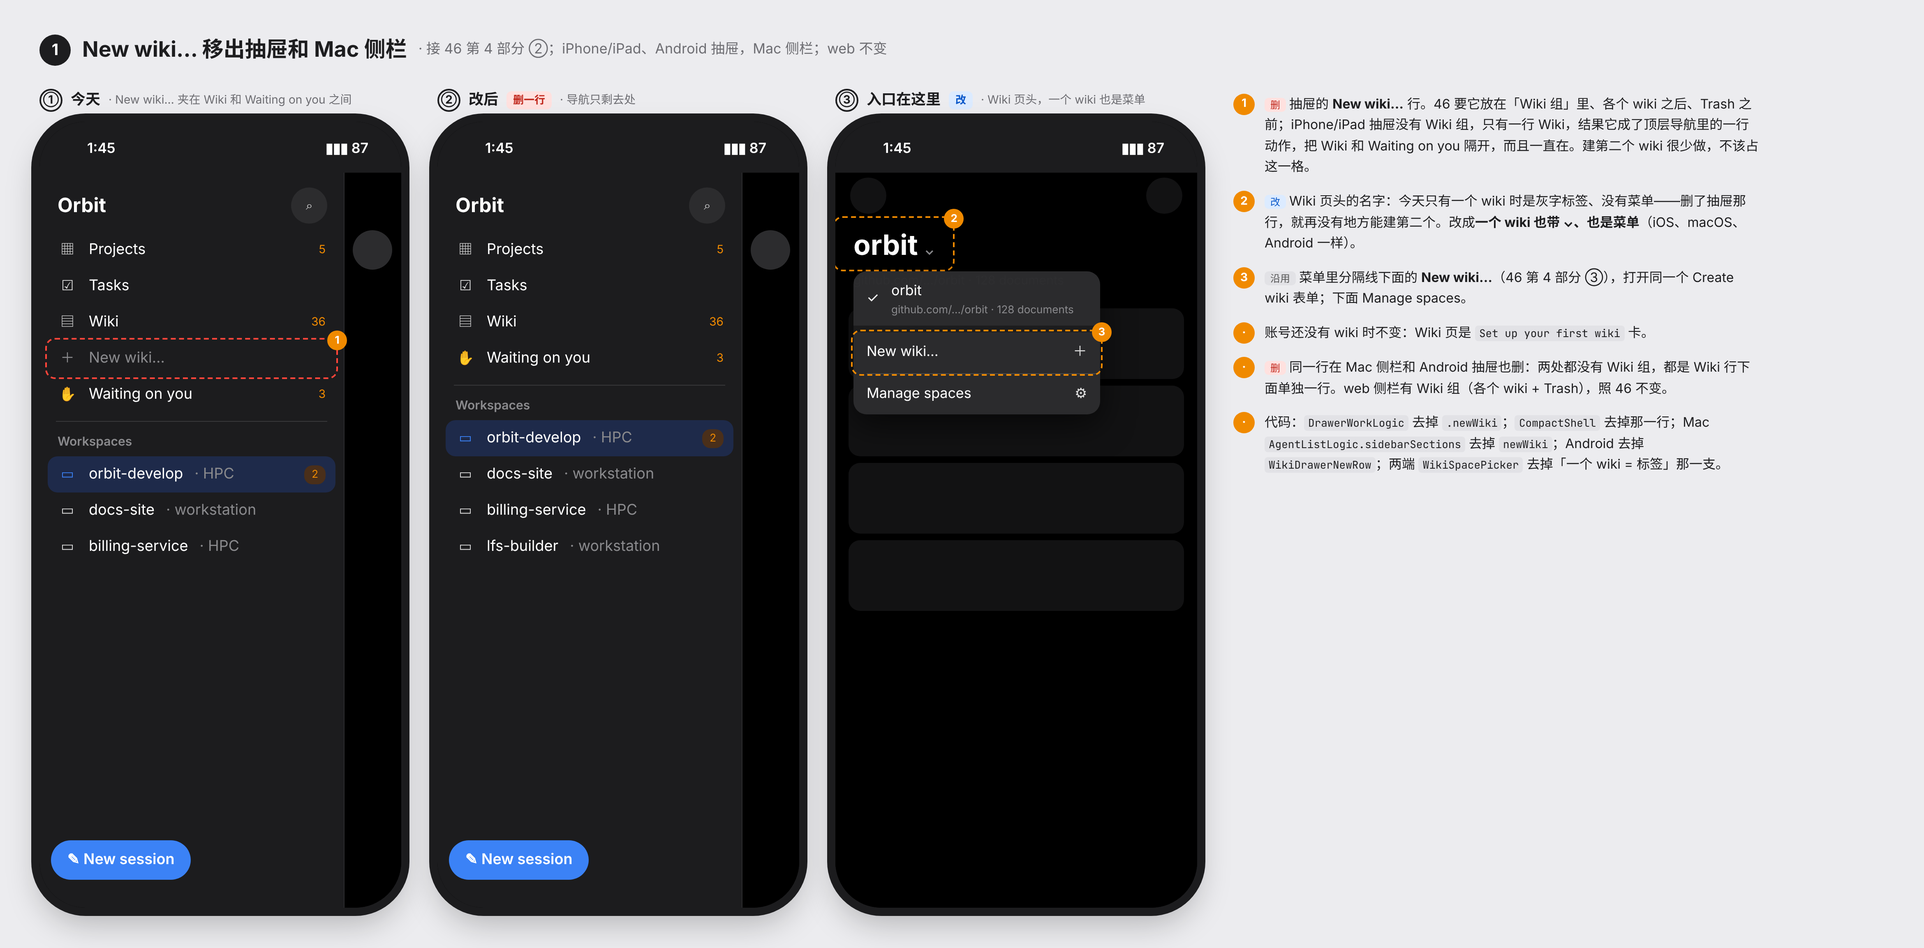
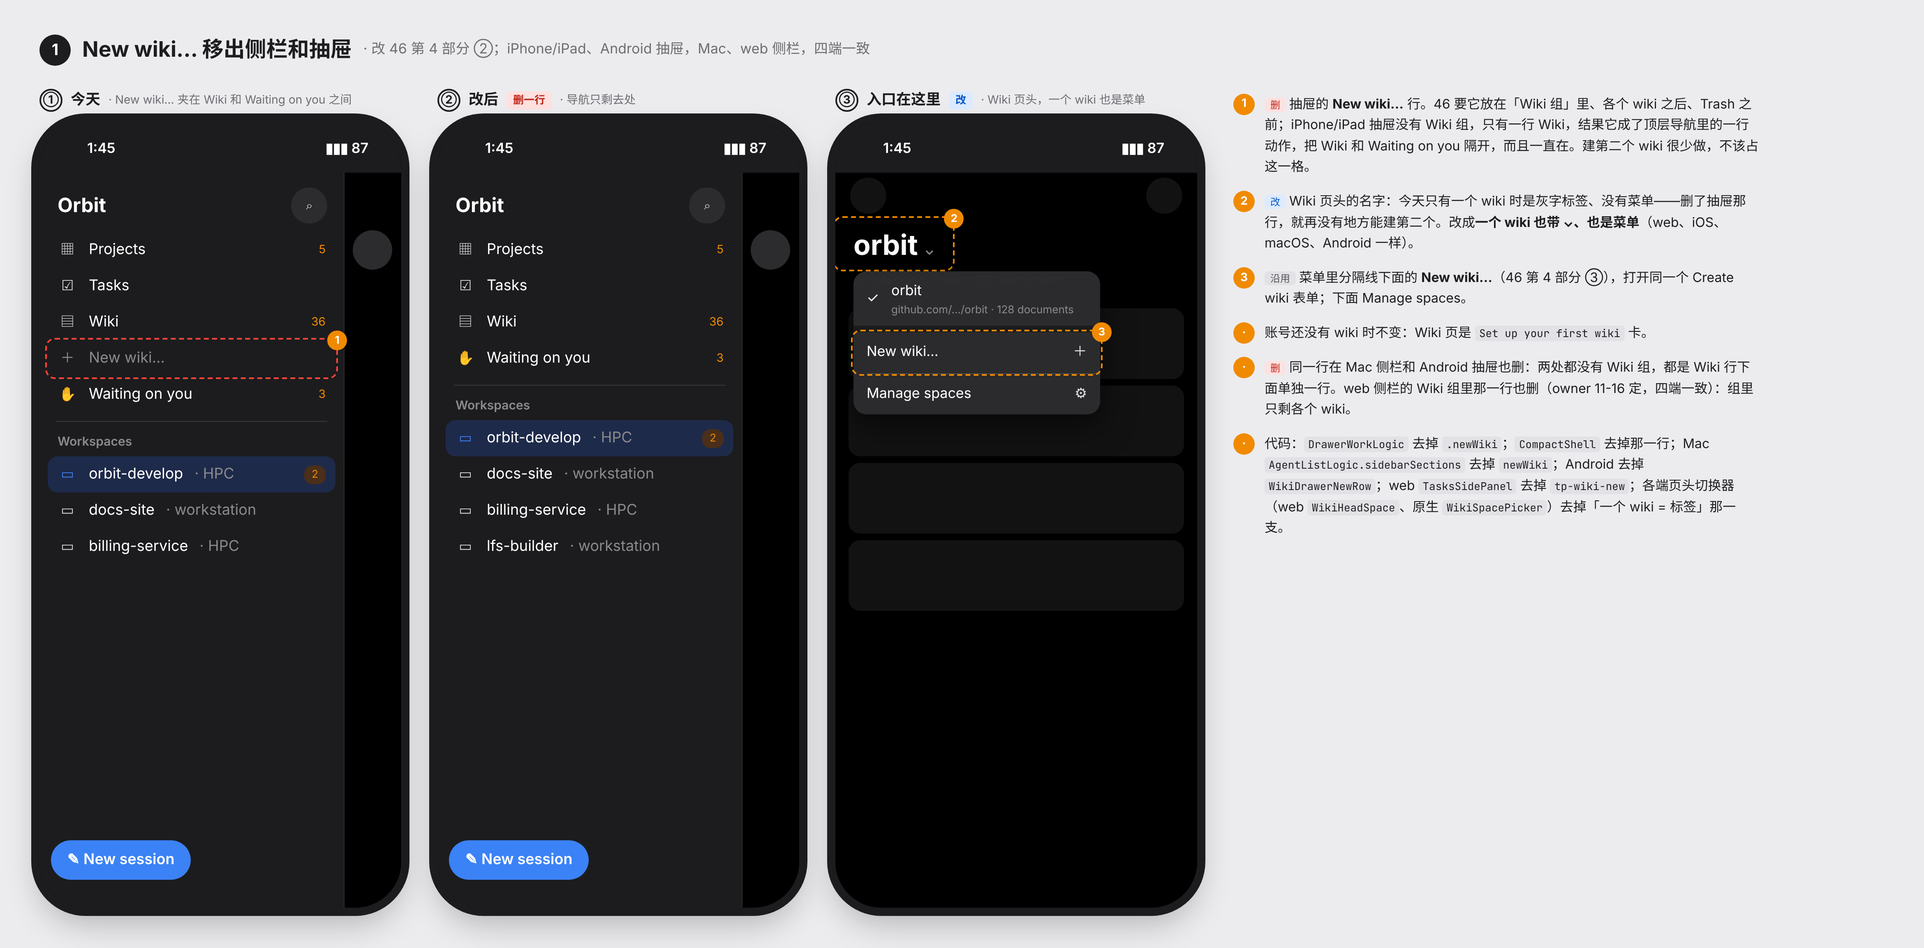
feat(web): New wiki… leaves the web sidebar too; the wiki head is a menu with one wiki
Board 47, owner's call on 11-16: no client draws a New wiki… row in its
sidebar or drawer. On the web the row was the Wiki group's last row
(board 46 part 4 ②); it goes as well, so the four clients match.

- TasksSidePanel: the tp-wiki-new row, its dialog state and its CSS removed.
- WikiHeadSpace: one wiki is a menu too (the wiki ticked, New wiki…,
  Manage spaces), as on iOS, macOS and Android, so New wiki… stays reachable.
- Tests: the sidebar's New wiki… block becomes "no row"; the one-wiki head
  tests expect the menu; the Swift parity tests that read the web follow.
- Board 47 and design doc §3.4 say the web row is gone as well.

Web: tsc clean; full vitest 8021/8023, and the 2 that failed at load ~40
(WorkspaceView.sessionMenu, WorkspaceSettingsPage.autoCompact) pass alone.
OrbitKit on Linux: 5323 tests, 0 failures.

diff --git a/docs/mocks/wiki/47-new-wiki-out-of-drawer.html b/docs/mocks/wiki/47-new-wiki-out-of-drawer.html
@@ -2,7 +2,7 @@
 <html lang="zh">
 <head>
 <meta charset="utf-8">
-<title>47 · New wiki… 移出抽屉和 Mac 侧栏</title>
+<title>47 · New wiki… 移出侧栏和抽屉</title>
 <style>
   * { box-sizing: border-box; }
   body { margin: 0; background: #ececef; font: 15px/1.6 Inter, "Noto Sans SC", sans-serif; color: #1d1d1f; }
@@ -74,7 +74,7 @@
 <body>
 
 <section class="b-part" id="part-1">
-  <div class="b-title"><span class="b-num">1</span>New wiki… 移出抽屉和 Mac 侧栏<span class="b-sub">· 接 46 第 4 部分 ②；iPhone/iPad、Android 抽屉，Mac 侧栏；web 不变</span></div>
+  <div class="b-title"><span class="b-num">1</span>New wiki… 移出侧栏和抽屉<span class="b-sub">· 改 46 第 4 部分 ②；iPhone/iPad、Android 抽屉，Mac、web 侧栏，四端一致</span></div>
   <div class="b-row">
     <div class="b-col">
       <h3><span class="b-n">①</span>今天 <small>· New wiki… 夹在 Wiki 和 Waiting on you 之间</small></h3>
@@ -140,11 +140,11 @@
     </div>
     <div class="b-notes">
       <p class="b-note"><span class="b-m">1</span><span><span class="b-chip b-del">删</span>抽屉的 <b>New wiki…</b> 行。46 要它放在「Wiki 组」里、各个 wiki 之后、Trash 之前；iPhone/iPad 抽屉没有 Wiki 组，只有一行 Wiki，结果它成了顶层导航里的一行动作，把 Wiki 和 Waiting on you 隔开，而且一直在。建第二个 wiki 很少做，不该占这一格。</span></p>
-      <p class="b-note"><span class="b-m">2</span><span><span class="b-chip b-new">改</span>Wiki 页头的名字：今天只有一个 wiki 时是灰字标签、没有菜单——删了抽屉那行，就再没有地方能建第二个。改成<b>一个 wiki 也带 ⌄、也是菜单</b>（iOS、macOS、Android 一样）。</span></p>
+      <p class="b-note"><span class="b-m">2</span><span><span class="b-chip b-new">改</span>Wiki 页头的名字：今天只有一个 wiki 时是灰字标签、没有菜单——删了抽屉那行，就再没有地方能建第二个。改成<b>一个 wiki 也带 ⌄、也是菜单</b>（web、iOS、macOS、Android 一样）。</span></p>
       <p class="b-note"><span class="b-m">3</span><span><span class="b-chip b-keep">沿用</span>菜单里分隔线下面的 <b>New wiki…</b>（46 第 4 部分 ③），打开同一个 Create wiki 表单；下面 Manage spaces。</span></p>
       <p class="b-note"><span class="b-m">·</span><span>账号还没有 wiki 时不变：Wiki 页是 <code>Set up your first wiki</code> 卡。</span></p>
-      <p class="b-note"><span class="b-m">·</span><span><span class="b-chip b-del">删</span>同一行在 Mac 侧栏和 Android 抽屉也删：两处都没有 Wiki 组，都是 Wiki 行下面单独一行。web 侧栏有 Wiki 组（各个 wiki + Trash），照 46 不变。</span></p>
-      <p class="b-note"><span class="b-m">·</span><span>代码：<code>DrawerWorkLogic</code> 去掉 <code>.newWiki</code>；<code>CompactShell</code> 去掉那一行；Mac <code>AgentListLogic.sidebarSections</code> 去掉 <code>newWiki</code>；Android 去掉 <code>WikiDrawerNewRow</code>；两端 <code>WikiSpacePicker</code> 去掉「一个 wiki = 标签」那一支。</span></p>
+      <p class="b-note"><span class="b-m">·</span><span><span class="b-chip b-del">删</span>同一行在 Mac 侧栏和 Android 抽屉也删：两处都没有 Wiki 组，都是 Wiki 行下面单独一行。web 侧栏的 Wiki 组里那一行也删（owner 11-16 定，四端一致）：组里只剩各个 wiki。</span></p>
+      <p class="b-note"><span class="b-m">·</span><span>代码：<code>DrawerWorkLogic</code> 去掉 <code>.newWiki</code>；<code>CompactShell</code> 去掉那一行；Mac <code>AgentListLogic.sidebarSections</code> 去掉 <code>newWiki</code>；Android 去掉 <code>WikiDrawerNewRow</code>；web <code>TasksSidePanel</code> 去掉 <code>tp-wiki-new</code>；各端页头切换器（web <code>WikiHeadSpace</code>、原生 <code>WikiSpacePicker</code>）去掉「一个 wiki = 标签」那一支。</span></p>
     </div>
   </div>
 </section>

diff --git a/src/web/src/components/TasksSidePanel.wikiGroup.test.tsx b/src/web/src/components/TasksSidePanel.wikiGroup.test.tsx
@@ -122,8 +122,8 @@ async function leave(): Promise<void> {
 }
 
 const group = () => container!.querySelector('.tp-group-wiki');
-/** The wikis' rows: the group's last row, New wiki…, is no wiki. */
-const rows = () => [...container!.querySelectorAll<HTMLElement>('.tp-group-wiki .tp-item:not(.tp-wiki-new)')];
+/** The wikis' rows. */
+const rows = () => [...container!.querySelectorAll<HTMLElement>('.tp-group-wiki .tp-item')];
 const row = (name: string) => rows().find((item) => item.querySelector('.tp-label')?.textContent === name)!;
 const names = () => rows().map((item) => item.querySelector('.tp-label')?.textContent);
 const entry = () =>
@@ -366,53 +366,10 @@ describe('the collapsed rail, which has no group', () => {
   });
 });
 
-describe('New wiki… (docs/wiki-explicit-creation-design.md §3.4, board 46 part 4)', () => {
-  const WORKSPACES = [
-    { ...WORKSPACE, repoUrl: 'https://github.com/jianghailong-xy/orbit.git', runner: { id: 'runner', name: 'workstation' } },
-    {
-      ...WORKSPACE,
-      id: encodeId('0196a000-0000-7000-8000-0000000000a2'),
-      name: 'lfs',
-      position: 1,
-      repoUrl: 'https://github.com/jianghailong-xy/lfs-builder',
-      runner: { id: 'runner', name: 'workstation' },
-    },
-  ];
-  const newRow = () => container!.querySelector<HTMLElement>('.tp-group-wiki .tp-item.tp-wiki-new');
-
-  it('is the group’s last row, after the wikis, grey and with no count', async () => {
+describe('New wiki… (board 47)', () => {
+  it('has no row in the Wiki group: the wiki head’s menu is the way to it', async () => {
     await visit('/projects');
-    const all = [...container!.querySelectorAll<HTMLElement>('.tp-group-wiki .tp-item')];
-    expect(all.at(-1)).toBe(newRow());
-    expect(newRow()!.querySelector('.tp-label')?.textContent).toBe(start.hasWiki.newWiki);
-    expect(newRow()!.querySelector('.tp-count')).toBeNull();
-    expect(newRow()!.getAttribute('role')).toBe('button');
-  });
-
-  it('folds with the group', async () => {
-    await visit('/projects');
-    await press(group()!.querySelector<HTMLElement>('.tp-group-head')!);
-    expect(newRow()).toBeNull();
-  });
-
-  it('opens the Create wiki form where the reader is, a repository with a wiki greyed and tagged', async () => {
-    serve(WIKIS, { workspaces: WORKSPACES });
-    await visit('/projects');
-    await press(newRow()!);
-    const dialog = document.querySelector('.wk-setup-dialog')!;
-    expect(dialog.querySelector('.orbit-overlay-title')?.textContent).toBe('Create wiki');
-    expect(pathname).toBe('/projects');
-    // The form opens on the one repository with no wiki, never on one that has one.
-    expect(document.getElementById('wk-setup-workspace')?.textContent).toBe('lfs · workstation');
-    await press(document.getElementById('wk-setup-workspace')!);
-    const labels = [...document.querySelectorAll('.orbit-select-group-label')].map((node) => node.textContent);
-    expect(labels).toEqual(['github.com/jianghailong-xy/lfs-builder', `github.com/jianghailong-xy/orbit${start.hasWiki.label}`]);
-  });
-
-  it('opens from the keyboard as well', async () => {
-    await visit('/projects');
-    await act(async () => newRow()!.dispatchEvent(new KeyboardEvent('keydown', { key: 'Enter', bubbles: true })));
-    await settle();
-    expect(document.querySelector('.wk-setup-dialog')).toBeTruthy();
+    expect(group()!.textContent).not.toContain(start.hasWiki.newWiki);
+    expect(rows().length).toBe(WIKIS.length);
   });
 });

diff --git a/src/web/src/components/TasksSidePanel.tsx b/src/web/src/components/TasksSidePanel.tsx
@@ -103,8 +103,6 @@ import { Avatar } from './ui/Avatar';
 import { useConfirm } from './ui/ConfirmDialog';
 import { Menu, type MenuItem } from './ui/Menu';
 import { useMoveWikiToTrash } from './WikiTrashDialog';
-import { WikiCreateDialog } from './WikiSetUpDialog';
-import { WIKI_NEW } from '../lib/wikiStart';
 import { Tooltip } from './ui/Tooltip';
 
 const IS_MAC_PLATFORM =
@@ -391,7 +389,6 @@ export function TasksSidePanel({ open = false, onNavigate }: { open?: boolean; o
   const wikiNames = useMemo(() => wikiSpaceNames(wikiSpaces.data ?? []), [wikiSpaces.data]);
   const [wikiOpen, setWikiOpen] = useState(true);
   // New wiki… (docs/wiki-explicit-creation-design.md §3.4): the Create wiki form, opened from the group's last row.
-  const [creatingWiki, setCreatingWiki] = useState(false);
 
   // The open workspace comes from /workspaces/<id>; behind a /sessions/<id> link, resolve
   // it from that session so its row highlights there too. The session query reuses
@@ -1173,23 +1170,8 @@ export function TasksSidePanel({ open = false, onNavigate }: { open?: boolean; o
                     menu={wikiMenu(space)}
                   />
                 ))}
-              {wikiOpen && (
-                <div
-                  className="tp-item tp-wiki-new"
-                  onClick={() => setCreatingWiki(true)}
-                  onKeyDown={(event) => handleNavActivation(event, () => setCreatingWiki(true))}
-                  role="button"
-                  tabIndex={0}
-                >
-                  <span className="tp-ico">
-                    <PlusOutlined aria-hidden="true" />
-                  </span>
-                  <span className="tp-label">{WIKI_NEW}</span>
-                </div>
-              )}
             </div>
           )}
-          {creatingWiki && <WikiCreateDialog onClose={() => setCreatingWiki(false)} />}
 
           {(hasWorkspaceRows || hasWikis) && hasProjects && <div className="tp-divider" />}
 

diff --git a/src/macos/OrbitKit/Tests/OrbitKitTests/WikiCopyParityTests.swift b/src/macos/OrbitKit/Tests/OrbitKitTests/WikiCopyParityTests.swift
@@ -370,15 +370,16 @@ final class WikiCopyParityTests: XCTestCase {
         assertSays(activity, "aria-label={wikiWaitingOnYou(waiting)}", in: Self.activity)
     }
 
-    /// One space is a label and several a picker (§12.3.4, mock 31 ④), by the same names; the rules for
+    /// The space is a picker however many there are (§12.3.4, mock 31 ④; board 47), by the same names; the rules for
     /// names, which space opens and what waits are held to the one fixture both ends read.
     func testTheSpaceRulesAreTheWebs() throws {
         let page = try source(Self.page)
         let head = try slice(page, from: "function WikiHeadSpace(", to: "/** The status row")
-        assertOrder(head, ["const names = useMemo(() => wikiSpaceNames(spaces), [spaces]);", "if (spaces.length < 2) {",
-                           "<span className=\"wk-space-tag\"", "textValue: wikiSpaceOption(names.get(row.id) ?? row.title, row),",
+        assertOrder(head, ["const names = useMemo(() => wikiSpaceNames(spaces), [spaces]);",
+                           "textValue: wikiSpaceOption(names.get(row.id) ?? row.title, row),",
                            "{ key: 'manage', label: WIKI_MANAGE_SPACES,"],
-                    "the head's space: a label alone, a menu among several ending at Manage spaces (board docs/mocks/wiki-space-menu)")
+                    "the head's space: a menu ending at Manage spaces (board docs/mocks/wiki-space-menu)")
+        XCTAssertFalse(head.contains("spaces.length < 2"), "one space is a menu too, as on this end (board 47)")
         assertSays(page, "wikiDefaultSpace(spaces.data ?? [], { workspaceId: readWikiFromWorkspace(), lastSlug: readWikiLastSpace() })",
                    in: Self.page)
         let rules = try source(Self.spaceLib)

diff --git a/src/web/src/pages/WikiPage.tsx b/src/web/src/pages/WikiPage.tsx
@@ -449,8 +449,8 @@ function WikiActivityRow({ space, waiting, on }: { space: SpaceRow; waiting: num
 }
 
 /**
- * The head's space (design §12.3.4, mock 31 ④): with one space, its name as a label with nothing to
- * choose; with more, the native select — closed, the name alone; open, every space with what waits in
+ * The head's space (design §12.3.4, mock 31 ④): a menu, one space or several, since it is the way to New wiki…
+ * (no sidebar has that row; board 47) — closed, the name alone; open, every space with what waits in
  * it, then New wiki… under a divider (docs/wiki-explicit-creation-design.md §3.4), which opens the Create
  * wiki form and leaves the head on this space. The name is the repository's (`wikiSpaceNames`), not the slug.
  */
@@ -459,13 +459,6 @@ function WikiHeadSpace({ space, spaces }: { space: SpaceRow; spaces: readonly Sp
   const names = useMemo(() => wikiSpaceNames(spaces), [spaces]);
   const [creating, setCreating] = useState(false);
   const name = names.get(space.id) ?? space.title;
-  if (spaces.length < 2) {
-    return (
-      <span className="wk-space-tag" title={WIKI_SPACE_PICKER_HINT}>
-        {name}
-      </span>
-    );
-  }
   // The console's own menu, as the Tasks title's scope picker opens (board docs/mocks/wiki-space-menu): a row a space —
   // its name, the repository and its documents under it, what waits in it as the sidebar's amber count — the current one
   // lit, and Manage spaces at the foot, into Wiki settings, as the native pickers end (iOS and Android `WikiSpacePicker`).

diff --git a/src/macos/OrbitKit/Tests/OrbitKitTests/WikiStartParityTests.swift b/src/macos/OrbitKit/Tests/OrbitKitTests/WikiStartParityTests.swift
@@ -869,13 +869,10 @@ final class WikiStartParityTests: XCTestCase {
         XCTAssertTrue(try native("WikiModel.swift").contains("WikiCopy.noSpaces"), "a write with no space on screen still says why")
     }
 
-    /// New wiki… (design §3.4, board 46 part 4; board 47): the web's sidebar row, and on every client the head picker's
-    /// item under its divider, raising the one Create wiki form over the shell. The iPhone/iPad drawer and the Mac
-    /// sidebar have no Wiki group, so they draw no New wiki… row: the head picker is the way in.
+    /// New wiki… (design §3.4, board 46 part 4; board 47): on every client the head picker's item under its divider,
+    /// raising the one Create wiki form over the shell. No sidebar or drawer draws a New wiki… row.
     func testNewWikiOpensTheCreateWikiForm() throws {
-        let sidebar = try web("src/web/src/components/TasksSidePanel.tsx")
-        assertOrder(sidebar, ["className=\"tp-item tp-wiki-new\"", "onClick={() => setCreatingWiki(true)}", "<PlusOutlined aria-hidden=\"true\" />",
-                              "<span className=\"tp-label\">{WIKI_NEW}</span>"], "the web's row")
+        XCTAssertFalse(try web("src/web/src/components/TasksSidePanel.tsx").contains("WIKI_NEW"), "the web's sidebar draws no New wiki… row")
         let page = try web("src/web/src/pages/WikiPage.tsx")
         assertOrder(page, ["{ type: 'separator', key: 'rule' },", "{ key: 'new', label: WIKI_NEW, icon: <PlusOutlined />, onSelect: () => setCreating(true) },"],
                     "the web's picker")

diff --git a/src/web/src/pages/WikiPage.test.tsx b/src/web/src/pages/WikiPage.test.tsx
@@ -351,7 +351,7 @@ describe('the Wiki home', () => {
 
   it('draws the head from the spaces list and grey bars for the rest while the first read is out (mock 31 ⑦)', () => {
     const html = paint('home', '/wiki/orbit', { spaces: [{ ...SPACE, pendingOps: 3 }] });
-    expect(html).toContain('<span class="wk-space-tag" title="The codebase this wiki describes">orbit</span>');
+    expect(html).toContain('<span class="v">orbit</span>');
     expect(html).toContain('title="3 waiting on you"');
     expect(html).toContain('<div class="wk-home-state"><span class="wk-sk" aria-hidden="true"></span></div>');
     expect(html).toContain('class="wk-pl-cat wk-home-sk" aria-busy="true"');
@@ -487,10 +487,11 @@ const THREE_SPACES = [
 ];
 
 describe('the Wiki head', () => {
-  it('names a lone space by its repository, as a label with nothing to choose', () => {
+  it('names a lone space by its repository, and is a menu all the same: New wiki… lives in it (board 47)', () => {
     const html = paint('home', '/wiki/orbit');
-    expect(html).toContain('<span class="wk-space-tag" title="The codebase this wiki describes">orbit</span>');
-    expect(html).not.toContain('<select');
+    expect(html).toContain('<span class="v">orbit</span>');
+    expect(html).toMatch(/<button[^>]*class="wk-select"[^>]*aria-haspopup="menu"/);
+    expect(html).not.toContain('wk-space-tag');
   });
 
   it('draws several as the name over a menu button, no native select (board wiki-space-menu B; the menu: WikiPage.spaceMenu.test)', () => {

diff --git a/src/web/src/components/TasksSidePanel.test.tsx b/src/web/src/components/TasksSidePanel.test.tsx
@@ -137,11 +137,10 @@ describe('TasksSidePanel nav', () => {
     expect(handleNavActivation({ key: ' ', preventDefault: () => { prevented += 1; } },
       () => { opened += 1; })).toBe(false);
     // The two surfaces, and a wiki's row in the group under them. The Wiki group has no Trash row: Trash opens from
-    // Wiki settings (docs/mocks/wiki-trash/02-trash-entry). Its one button is New wiki…, which opens the Create wiki form
-    // where the reader is (docs/wiki-explicit-creation-design.md §3.4).
+    // Wiki settings (docs/mocks/wiki-trash/02-trash-entry). Nor a New wiki… row: that is in the wiki head's menu (board 47).
     expect(source.match(/role="link"/g)).toHaveLength(3);
-    expect(source.match(/tabIndex=\{0\}/g)).toHaveLength(4);
-    expect(source.match(/role="button"\s+tabIndex=\{0\}/g)).toHaveLength(1);
+    expect(source.match(/tabIndex=\{0\}/g)).toHaveLength(3);
+    expect(source.match(/role="button"\s+tabIndex=\{0\}/g)).toBeNull();
     expect(source.match(/aria-current=\{sel === t\.key \? 'page' : undefined\}/g)).toHaveLength(1);
     expect(source.match(/aria-current=\{railSel === t\.key \? 'page' : undefined\}/g)).toHaveLength(1);
   });

diff --git a/src/web/src/components/TasksSidePanel.wikiMenu.test.tsx b/src/web/src/components/TasksSidePanel.wikiMenu.test.tsx
@@ -139,8 +139,8 @@ async function visit(path: string): Promise<void> {
 }
 
 const text = (el: Element | null | undefined) => el?.textContent?.trim() ?? null;
-/** The wikis' rows: the group's last row, New wiki…, is no wiki. */
-const rows = () => [...container!.querySelectorAll<HTMLElement>('.tp-group-wiki .tp-item:not(.tp-wiki-new)')];
+/** The wikis' rows. */
+const rows = () => [...container!.querySelectorAll<HTMLElement>('.tp-group-wiki .tp-item')];
 const rowNames = () => rows().map((row) => text(row.querySelector('.tp-label')));
 const row = (name: string) => rows().find((one) => text(one.querySelector('.tp-label')) === name)!;
 const menuItems = () => [...document.body.querySelectorAll<HTMLElement>('[role="menu"] [role="menuitem"]')];

diff --git a/src/web/src/components/WikiHomeContent.test.tsx b/src/web/src/components/WikiHomeContent.test.tsx
@@ -336,7 +336,7 @@ describe('the home’s first read (design §12.3.6, mock 31 ⑦)', () => {
     let answer: (directory: WikiDocsDirectory) => void = () => {};
     docsAnswer = () => new Promise((resolve) => (answer = resolve));
     const client = await open();
-    expect(words(container.querySelector('.wk-title-row .wk-space-tag'))).toBe('orbit');
+    expect(words(container.querySelector('.wk-title-row .wk-select .v'))).toBe('orbit');
     expect(words(container.querySelector('.wk-activity-btn .tp-rail-badge'))).toBe('1');
     expect(container.querySelector('.wk-home-state .wk-sk')).toBeTruthy();
     expect(container.querySelector('.wk-home-sk')?.getAttribute('aria-busy')).toBe('true');

diff --git a/src/web/src/index.css b/src/web/src/index.css
@@ -25940,7 +25940,6 @@ button.project-open-item-action:disabled {
   .wk-trash-acts { grid-column: 2; }
   .wk-trash-row .wk-trash-error { grid-column: 2; }
 }
-.tp-group-wiki .tp-wiki-new { color: var(--text-3); }
 .wk-maint-off { display: grid; grid-template-columns: minmax(0, 1fr) auto auto; gap: 12px; align-items: center; }
 .wk-maint-t { font-size: 14px; color: var(--text-1); }
 .wk-maint-d { margin-top: 2px; font-size: 12px; line-height: 1.5; color: var(--text-3); }

diff --git a/docs/wiki-explicit-creation-design.md b/docs/wiki-explicit-creation-design.md
@@ -122,8 +122,8 @@
 - **侧栏 Wiki 组**（web `TasksSidePanel.tsx`；iOS、macOS 抽屉；Android 抽屉）：各个 wiki 的行之后、Trash 行之前，加一行 `New wiki…`。
   图标用 `PlusOutlined`（web）/ `plus`（SF Symbols）/ `Icons.Outlined.Add`，灰字，样式照 Trash 行（`tp-item tp-wiki-trash`），不带计数。
 - **wiki 页头的切换器**：列表最后、分隔线下面加一项 `New wiki…`。
-- **改（11-16，board 47）**：iPhone/iPad 抽屉、Mac 侧栏、Android 抽屉都没有 Wiki 组，只有一行 Wiki，`New wiki…` 落成了顶层导航里的一行，所以这三处不放这一行；
-  原生的页头切换器改为一个 wiki 也是菜单（勾着这个 wiki，下面 `New wiki…`、`Manage spaces`），它就是原生端建第二个 wiki 的入口。web 侧栏照上面不变。
+- **改（11-16，board 47）**：侧栏和抽屉都不放 `New wiki…` 这一行。iPhone/iPad 抽屉、Mac 侧栏、Android 抽屉没有 Wiki 组，它落成了顶层导航里的一行；
+  web 侧栏也拿掉，四端一致（owner 定）。各端页头切换器改为一个 wiki 也是菜单（勾着这个 wiki，下面 `New wiki…`、`Manage spaces`），它就是建第二个 wiki 的入口。
 - 两个入口打开的都是**现有的** `WikiCreateDialog`（「下拉框按仓库分组，没有仓库的 workspace 不列」），提交照旧走 `POST /wiki/spaces`，
   一次建 space、开维护、起草 plan，成功后进新 wiki。已经有 wiki 的仓库在下拉框里灰掉，并标 `Has a wiki`（同一仓库只能有一个 space：
   `unique (owner_id, repo_url_norm)`；今天重复提交会撞这个约束、答 500，改为先查、答 409 `WIKI_SPACE_EXISTS`，
